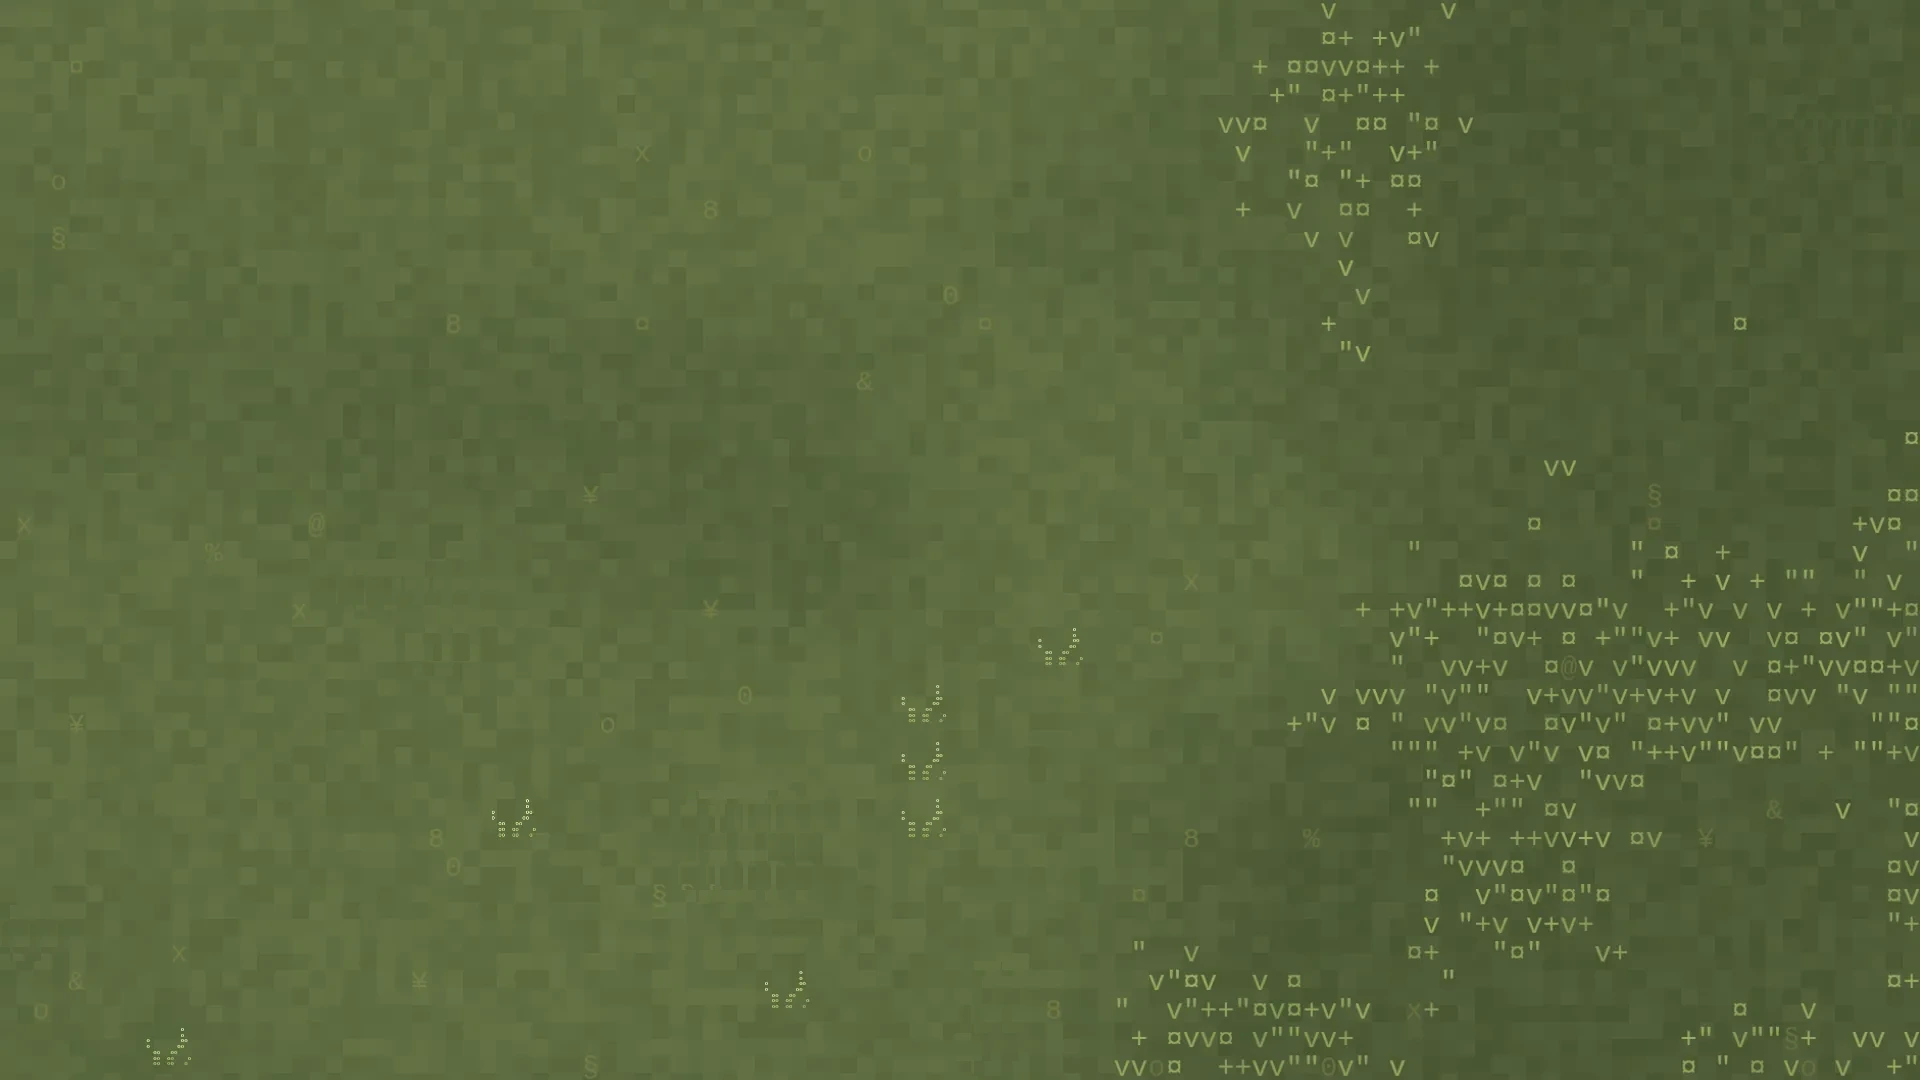
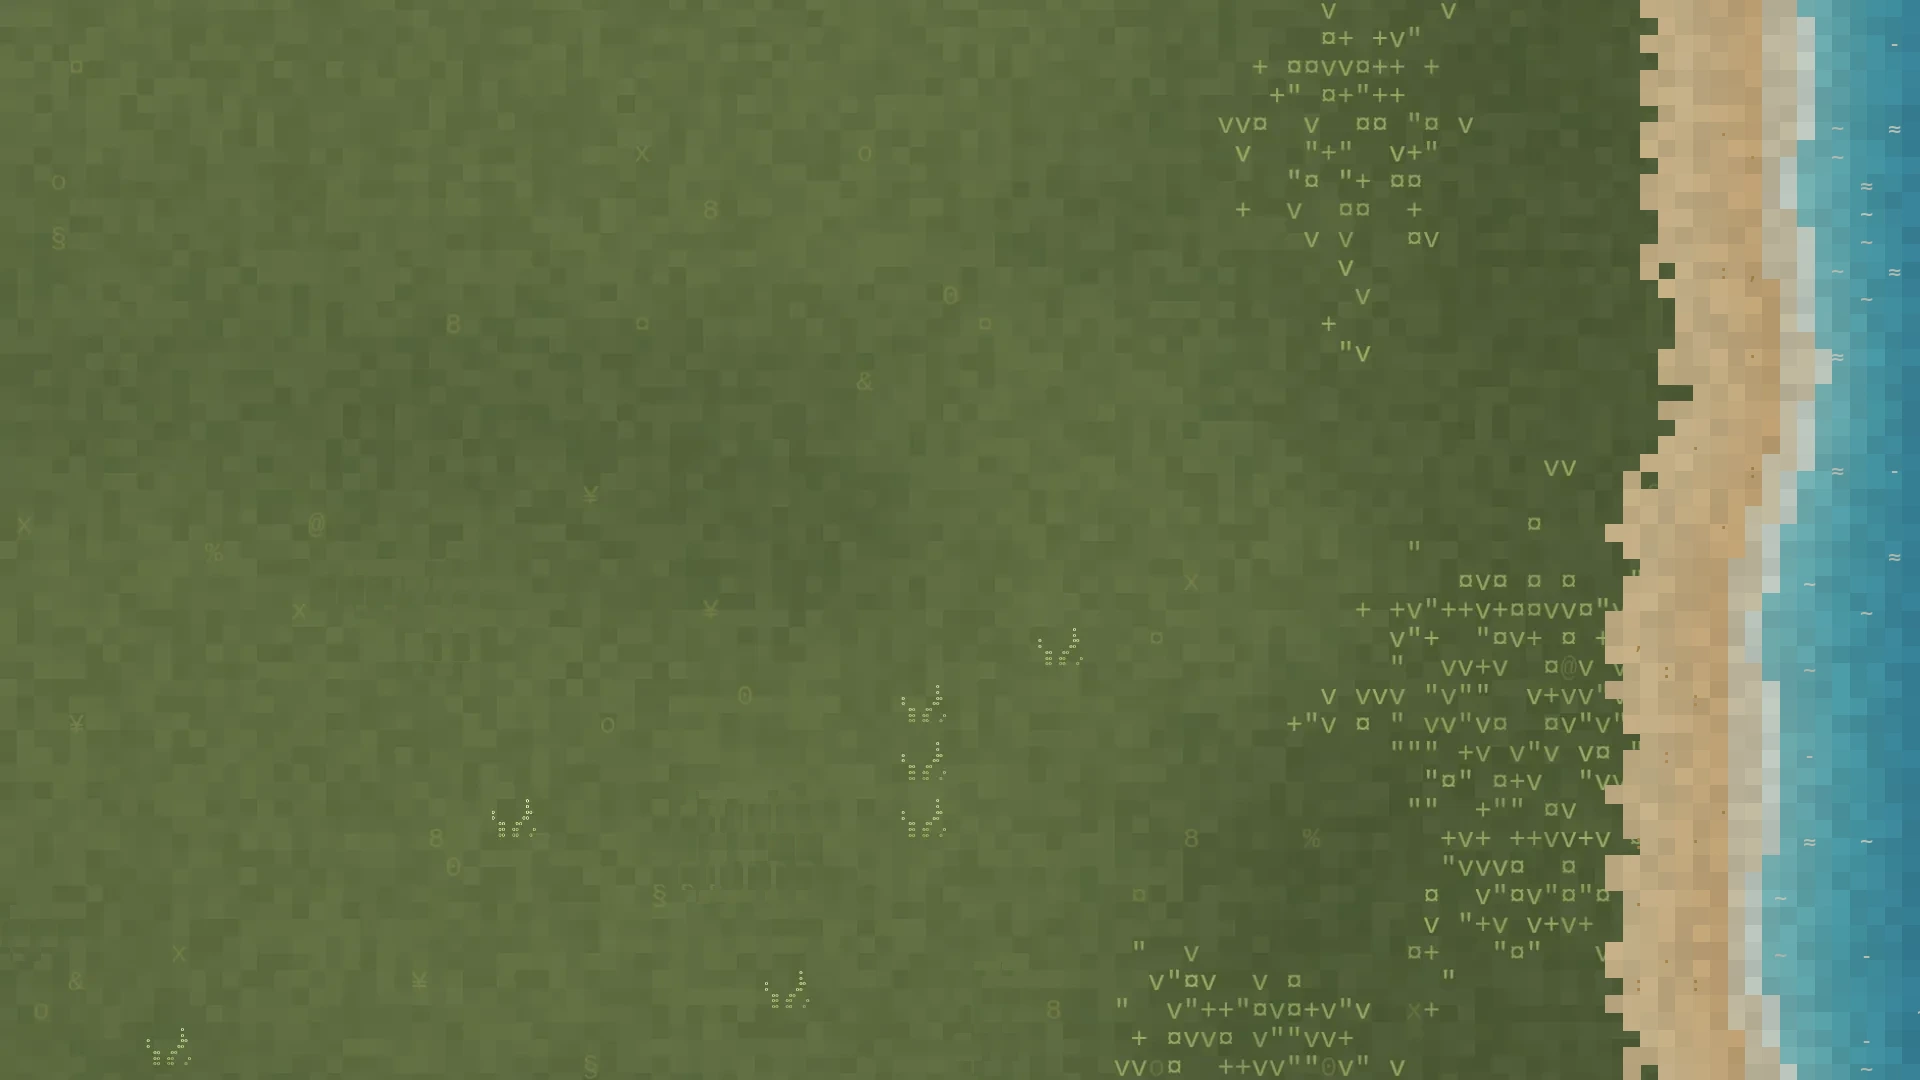
Start screen: the shore on the right, the player higher, four pink flowers
- The meadow background gets its coast on the right: dry sand coming out
  of the grass, wet sand, a foam line and shallow-to-deep water with a few
  ~ glyphs, painted in the meadow's own block mosaic and the game's sand
  and water colours. Anchored right (upright screens: just the shore's
  edge) so it always shows.
- The player stands higher, on the sand by the water.
- The four flowers by the title are all pink.

Claude-Session: https://claude.ai/code/session_01SdonzUkZukdS6Hs9N1LRbm

Changed region(s): [[0.8125, 0.0, 1.0, 1.0]]

diff --git a/src/App.tsx b/src/App.tsx
@@ -559,8 +559,8 @@ function LandingScenery() {
   );
 }
 
-// four flowers by the title, two over two (the meadow's own little clusters)
-const TITLE_FLOWERS = [S.FLOWER_PLUS_PALETTE, S.FLOWER_PLUS_WHITE_PALETTE, S.FLOWER_PLUS_ORANGE_PALETTE, S.FLOWER_PLUS_PURPLE_PALETTE];
+// four pink flowers by the title, two over two (the meadow's own little clusters)
+const TITLE_FLOWERS = [S.FLOWER_PLUS_PALETTE, S.FLOWER_PLUS_PALETTE, S.FLOWER_PLUS_PALETTE, S.FLOWER_PLUS_PALETTE];
 
 function Landing({ onStart }: { onStart: () => void }) {
   const [error, setError] = useState<string | null>(null);
@@ -616,7 +616,7 @@ function Landing({ onStart }: { onStart: () => void }) {
   }
 
   return (
-    // the background is a real shot of the island's meadow (src/assets); the
+    // the background is the island's meadow with its shore on the right (src/assets); the
     // title and the buttons share one left edge, the player stands in the
     // bottom-right corner, and a few flowers lead from them to the buttons
     <div className="landing" style={{ backgroundImage: `url(${startMeadowUrl})` }}>

diff --git a/src/styles.css b/src/styles.css
@@ -82,10 +82,18 @@ pre {
   position: relative;
   height: 100%;
   overflow: hidden;
-  /* the meadow shot (set inline from src/assets/start-meadow.webp) */
+  /* the meadow with the shore on its right (set inline from
+     src/assets/start-meadow.webp); anchored right so narrow screens still
+     show the coast */
   background-color: #4f6436;
   background-size: cover;
-  background-position: center;
+  background-position: right center;
+}
+/* upright screens: just the edge of the shore on the right */
+@media (max-aspect-ratio: 9/10) {
+  .landing {
+    background-position: 85% center;
+  }
 }
 
 /* the title and the buttons: one column on one left edge, vertically centred */
@@ -179,12 +187,12 @@ pre {
 .landing-player {
   position: absolute;
   right: 9vw;
-  bottom: 17vh;
+  bottom: 26vh;
   color: #fff;
   filter: saturate(var(--player-sat, 1)) brightness(1.08) drop-shadow(0 6px 6px rgba(0, 0, 0, 0.25));
 }
 .landing-player.portrait {
-  bottom: 12vh;
+  bottom: 14vh;
 }
 .landing-flower {
   margin: 0;
